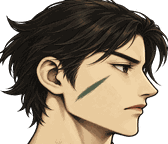
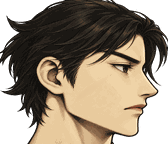
v327 꾸미기 얼굴마다 맞추기: 눈·턱 자리 측정, 안대·외눈·면사·칼자국·삿갓을 그 머리에, 목·머리카락은 옷깃 뒤로
Claude-Session: https://claude.ai/code/session_01A3prWCVJXDYfeByQW7RT7U

Changed region(s): [[0.4464, 0.5278, 0.6548, 0.6944], [0.4167, 0.5833, 0.4464, 0.6111]]

diff --git a/js/battle.js b/js/battle.js
@@ -1,7 +1,7 @@
 // 전투 화면 캔버스 렌더러 (수묵화 무협풍). 게임 이벤트를 받아 연출만 담당한다.
 import { drawObstacle, drawLowObstacle } from './obstacles.js';
 import { zoneOf, RANKS, GRADES, FIELD_SQUASH, JOB_TRAITS, QI, jobOf, critTierName } from './data.js';
-import { artReady, putArt, putArtBand, putArtEdge, putArtTint, loadArt, FIT, ART_SHOULDER, ART_BAND, headKey, bodyKey, weaponKey, artHeight, hasBodyArt, putWeapon, weaponBare, putHat, bodyColors, hasArt, HEAD_FIT, registerArt, artImg } from './art.js';
+import { artReady, putArt, putArtBand, putArtEdge, putArtTint, loadArt, FIT, ART_SHOULDER, ART_BAND, headKey, bodyKey, weaponKey, artHeight, hasBodyArt, putWeapon, weaponBare, putHat, hatRect, headGeom, headMasked, bodyColors, hasArt, HEAD_FIT, registerArt, artImg } from './art.js';
 import { drawFemaleHead, drawBackHair, FHEAD_W, FHEAD_H, FHEAD_FIT } from './femhead.js';
 import { drawCreature, saddleY, mountTilt, mountGait } from './creatures.js';
 import { ZONES_W, itemZone, weaponSkinOf, CUSTOM_HAIRS } from './world/wdata.js';
@@ -4504,6 +4504,10 @@ export function drawFighter(ctx, x, y, look = {}, o = {}) {
   // v325 기운 낟알(뒤쪽 반) · 여협 뒷머리(그림 머리가 아직 안 왔을 때만 — 그림 머리에는 머리카락이 다 있다)
   if (look.gAura) drawAuraFx(ctx, look.gAura, t, false);
   if (look.female && look.fhead && look.fhead.startsWith('fhv|')) drawBackHair(ctx, look.fstyle, hairHex(look.hairK), look.band, t, o.run);
+  // v327 머리 그림의 턱 아래(목·늘어진 머리카락)는 몸보다 먼저 — 목이 옷깃 안으로 들어가고 머리카락이 어깨 뒤로 넘어간다.
+  //   전엔 머리 한 장을 몸 위에 얹어 목 밑동·머리카락 끝이 옷깃 앞에 네모로 떠 있었다
+  const hk0 = artReady() && !jiang && !look.ghost ? headKey(look) : null;
+  if (hk0) drawHeadArt(ctx, hk0, (HEAD_FIT[hk0]?.fit) || FIT.head, look, HEAD_SPLIT, 99);
   // 상체 — 그림 조각이 있으면 도포·상체·허리띠를 한 장으로 갈음한다
   const artBody = artReady() && !jiang && !look.ghost;
   // 두목 옷: 흰 도포 그림에 그 빛깔을 곱해 입힌다(그림 도포 여섯 빛깔에 없는 색도 그대로 나온다)
@@ -4540,7 +4544,11 @@ export function drawFighter(ctx, x, y, look = {}, o = {}) {
   // v280 띠가 그려진 머리(상투·머리띠)는 띠를 무인이 고른 색으로
   const HF = (hk && HEAD_FIT[hk]?.fit) || FIT.head;   // v325 그림마다 놓는 자리(여협 머리)
   const tintHead = look.bandTint && (hk === 'head-topknot' || hk === 'head-band' || (hk?.startsWith('fh-') && !hk.endsWith('-red')));
-  if (hk && (tintHead ? putArtBand(ctx, hk, HF, look.band) : putArt(ctx, hk, HF))) {
+  // v327 삿갓을 쓰면 챙 위로 삐져나온 머리카락(상투·쪽·꽁지)은 갓 속에 — 머리 그림을 챙 조금 위에서 자른다
+  const hatR = look.hat === 'straw' && hk && hk !== 'head-hat' && hk !== 'head-hood' ? hatRect('hat-straw', hk, HF) : null;
+  const headTop = hatR ? hatR.brim - hatR.h * 0.16 : -999;
+  const backDone = hk && hk === hk0 && !look.ghost;
+  if (hk && (backDone ? drawHeadArt(ctx, hk, HF, look, headTop, HEAD_SPLIT, tintHead) : hatR ? drawHeadArt(ctx, hk, HF, look, headTop, 99, tintHead) : (tintHead ? putArtBand(ctx, hk, HF, look.band) : putArt(ctx, hk, HF)))) {
     // 머리카락까지 한 장
   } else {
   ctx.fillStyle = skin;
@@ -4561,6 +4569,9 @@ export function drawFighter(ctx, x, y, look = {}, o = {}) {
   }
   // v306 안대 — 눈 자리를 가로지르는 띠, 뒤통수 쪽에 매듭 꼬리 둘
   if (look.blind && look.head !== 'mask' && !jiang) {
+    const g = hk ? headGeom(hk, HF) : null;
+    if (g) drawBlindArt(ctx, hk, g, look.blind, t);
+    else {
     const hh = hk ? artHeight(hk, HF) : 0;
     const ey = hk ? HF.y - hh * (HEAD_FIT[hk]?.eye ?? 0.44) : -89;   // v323 머리마다 눈 선
     const cx = hk ? HF.x : 1;
@@ -4574,9 +4585,10 @@ export function drawFighter(ctx, x, y, look = {}, o = {}) {
     ctx.beginPath(); ctx.moveTo(cx - 12, ey); ctx.quadraticCurveTo(cx - 19, ey + 2 + sw, cx - 21, ey + 9 + sw); ctx.stroke();
     ctx.beginPath(); ctx.moveTo(cx - 12, ey + 1); ctx.quadraticCurveTo(cx - 17, ey + 5 - sw, cx - 16, ey + 12 - sw); ctx.stroke();
     ctx.restore();
+    }
   }
   // v323 쓰개 덧씌우기 — 삿갓을 어느 머리(맨머리·상투·민머리 + 안대)에나 얹는다
-  if (look.hat === 'straw' && hk && hk !== 'head-hat' && hk !== 'head-hood') putHat(ctx, 'hat-straw', hk, HF);
+  if (hatR) putHat(ctx, 'hat-straw', hk, HF);
   // v325 얼굴 덧그림 — 외눈 안대 · 면사 · 칼자국 (그림, 눈 자리에)
   if (look.faceAcc && hk && !jiang) drawFaceAcc(ctx, look.faceAcc, hk, HF, t);
   if (look.crown) drawCrown(ctx, t);
@@ -4711,18 +4723,71 @@ function femaleHeadKey(style, hairK, band) {
   }
   return key;
 }
+const HEAD_SPLIT = FIT.head.y - 2;   // v327 이 선 아래 머리 그림은 몸 뒤로
+// v327 머리 그림을 y 범위(top~bot)만 — 몸 뒤 패스(턱 아래)와 몸 앞 패스(턱 위·삿갓 아래)로 나눠 그린다
+function drawHeadArt(ctx, hk, HF, look, top, bot, tint) {
+  ctx.save();
+  ctx.beginPath(); ctx.rect(HF.x - HF.w * 1.5, top, HF.w * 3, bot - top); ctx.clip();
+  const ok = tint ?? (look.bandTint && (hk === 'head-topknot' || hk === 'head-band' || (hk.startsWith('fh-') && !hk.endsWith('-red'))))
+    ? putArtBand(ctx, hk, HF, look.band) : putArt(ctx, hk, HF);
+  ctx.restore();
+  return ok;
+}
+// v327 안대 — 머리 그림 모양대로 오린 띠(눈 줄 · 얼굴 폭에 맞춘 두께) + 뒤통수에서 늘어지는 매듭 꼬리
+function drawBlindArt(ctx, hk, g, col, t) {
+  const cv = headMasked(hk, `blind${col}`, (c, W, H, a) => {
+    const fw = (a.faceR - a.faceL) * W, cy = a.eyeY * H, th = fw * 0.2;
+    c.fillStyle = col;
+    c.beginPath();
+    c.moveTo(0, cy - th * 0.62); c.quadraticCurveTo(W * 0.55, cy - th * 0.72, W, cy - th * 0.4);
+    c.lineTo(W, cy + th * 0.6); c.quadraticCurveTo(W * 0.55, cy + th * 0.42, 0, cy + th * 0.38);
+    c.closePath(); c.fill();
+    c.strokeStyle = 'rgba(0,0,0,.4)'; c.lineWidth = Math.max(1, th * 0.09); c.stroke();
+    c.strokeStyle = 'rgba(255,255,255,.18)'; c.lineWidth = Math.max(1, th * 0.07);
+    c.beginPath(); c.moveTo(0, cy - th * 0.4); c.quadraticCurveTo(W * 0.55, cy - th * 0.5, W, cy - th * 0.2); c.stroke();
+    c.strokeStyle = 'rgba(0,0,0,.18)'; c.lineWidth = Math.max(1, th * 0.05);
+    for (const f of [0.3, 0.5, 0.68]) { c.beginPath(); c.moveTo(W * f, cy - th * 0.5); c.lineTo(W * (f + 0.03), cy + th * 0.45); c.stroke(); }
+  });
+  if (!cv) return;
+  ctx.drawImage(cv, g.x0, g.y0, g.w, g.h);
+  const k = g.faceW / 16, bx = g.backX + 0.8 * k, by = g.eyeY;
+  ctx.save();
+  ctx.strokeStyle = col; ctx.lineCap = 'round'; ctx.lineWidth = 1.9 * k;
+  const sw = Math.sin(t * 5) * 1.3 * k;
+  ctx.beginPath(); ctx.moveTo(bx, by); ctx.quadraticCurveTo(bx - 6 * k, by + 2 * k + sw, bx - 8 * k, by + 8 * k + sw); ctx.stroke();
+  ctx.beginPath(); ctx.moveTo(bx, by + 0.6 * k); ctx.quadraticCurveTo(bx - 4 * k, by + 4.5 * k - sw, bx - 3.5 * k, by + 10 * k - sw); ctx.stroke();
+  ctx.fillStyle = col; ctx.beginPath(); ctx.ellipse(bx, by + 0.3 * k, 1.5 * k, 1.2 * k, 0, 0, Math.PI * 2); ctx.fill();
+  ctx.restore();
+}
 function drawFaceAcc(ctx, kind, hk, HF, t) {
   const im = artImg(`face-${kind}`);
+  const g = headGeom(hk, HF);
+  if (im && g) {
+    if (kind === 'veil') {
+      // 면사 — 눈 아래부터 코·입·턱을 덮고 턱 밑으로 조금 늘어진다
+      // 그림 왼쪽 매듭 꼬리는 뺨 위에서 핏자국처럼 보여 천 부분(32%~)만 쓴다
+      const x0 = g.eyeX - g.faceW * 0.3, x1 = g.faceR + g.faceW * 0.07;
+      const top = g.eyeY + (g.jawY - g.eyeY) * 0.3;
+      const hh = Math.max((g.jawY - top) * 2, g.faceW * 0.4);
+      ctx.drawImage(im, im.width * 0.32, 0, im.width * 0.68, im.height, x0, top - hh * 0.08, x1 - x0, hh);
+      return;
+    }
+    const cv = headMasked(hk, kind, (c, W, H, a) => {
+      const fw = (a.faceR - a.faceL) * W, ex = a.eyeX * W, ey = a.eyeY * H;
+      if (kind === 'patch') {   // 외눈 안대 — 원판(그림의 72%·62% 자리)을 눈에, 끈은 뒤통수로(머리 밖은 잘림)
+        const sw = fw * 0.72, sh = (im.height * sw) / im.width;
+        c.drawImage(im, ex - sw * 0.72, ey - sh * 0.6, sw, sh);
+      } else {                  // 칼자국 — 눈썹 위에서 눈을 지나 뺨까지
+        const L = fw * 0.46, sw = (im.width * L) / im.height;
+        c.save(); c.translate(ex - fw * 0.05, ey + fw * 0.04); c.rotate(-0.18);
+        c.drawImage(im, -sw / 2, -L / 2, sw, L); c.restore();
+      }
+    });
+    if (cv) { ctx.drawImage(cv, g.x0, g.y0, g.w, g.h); return; }
+  }
   const f = HEAD_FIT[hk] || {};
   const hh = artHeight(hk, HF);
   const ey = HF.y - hh * (f.eye ?? 0.44), ex = HF.x - HF.w / 2 + HF.w * (f.eyeX ?? 0.72);
-  if (im) {
-    const w = kind === 'veil' ? HF.w * 0.62 : kind === 'patch' ? HF.w * 0.42 : HF.w * 0.1;
-    const h = (im.height * w) / im.width;
-    const yy = kind === 'veil' ? ey + HF.w * 0.08 : ey - h / 2;
-    ctx.drawImage(im, ex - w / 2 + (kind === 'veil' ? -HF.w * 0.05 : 0), yy, w, h);
-    return;
-  }
   // 그림이 아직 안 왔으면 단순한 모양
   ctx.save();
   if (kind === 'patch') { ctx.fillStyle = '#111'; ctx.beginPath(); ctx.ellipse(ex, ey, 2.6, 2.2, 0, 0, Math.PI * 2); ctx.fill(); ctx.strokeStyle = '#111'; ctx.lineWidth = 0.9; ctx.beginPath(); ctx.moveTo(ex - 2, ey - 1.5); ctx.lineTo(ex - 11, ey - 4); ctx.stroke(); }

diff --git a/js/art.js b/js/art.js
@@ -71,6 +71,7 @@ export const ART_SHOULDER = { x: 9, y: BODY_TOP + 9 };
 export const ART_BAND = { x: -5, y: BODY_TOP + 4 - 14 };
 
 import { ART2_HEADS, ART2_WEAPONS, ART2_SPRITES } from './art2.js';
+import { HEAD_ANCHOR } from './headanchor.js';
 const img = {};
 let ready = false;
 let tried = false;
@@ -171,10 +172,60 @@ let tried2 = false;
 export function loadArt2(onEach) {
   if (tried2 || typeof Image === 'undefined') return;
   tried2 = true;
-  const one = (n, then) => { const im = new Image(); im.onload = () => { img[n] = im; then?.(); onEach?.(n); }; im.src = `art/hero2/${n}.png`; };
+  const one = (n, then) => { const im = new Image(); im.onload = () => { img[n] = n.startsWith('fh-') ? fadeBottom(im, 0.86) : im; then?.(); onEach?.(n); }; im.src = `art/hero2/${n}.png`; };
   for (const [n, f] of Object.entries(ART2_HEADS)) one(n, () => { HEAD_FIT[n] = { crop: 1, brow: f.brow, eye: f.eye, eyeX: f.eyeX, fit: { w: f.w, x: f.x, y: f.y } }; });
   for (const [n, f] of Object.entries(ART2_WEAPONS)) one(n, () => { WEAPON_FIT[n] = { ...f }; });
   for (const n of ART2_SPRITES) one(n);
+}
+// v327 여협 머리 그림 맨 아래(목·늘어진 머리카락)는 네모로 잘려 있었다 — 아래 14%를 투명하게 흐려 끝을 부드럽게
+function fadeBottom(im, from) {
+  if (typeof document === 'undefined') return im;
+  const c = document.createElement('canvas'); c.width = im.width; c.height = im.height;
+  const g = c.getContext('2d'); g.drawImage(im, 0, 0);
+  g.globalCompositeOperation = 'destination-out';
+  const gr = g.createLinearGradient(0, im.height * from, 0, im.height);
+  gr.addColorStop(0, 'rgba(0,0,0,0)'); gr.addColorStop(1, 'rgba(0,0,0,1)');
+  g.fillStyle = gr; g.fillRect(0, im.height * from - 1, im.width, im.height * (1 - from) + 2);
+  return c;
+}
+// v327 머리 그림에서 잰 자리(눈·눈썹·정수리·턱·얼굴 좌우·뒤통수)를 그려지는 좌표로 — 덧그림을 '그 얼굴'에 맞춘다
+export function headGeom(hk, HF) {
+  const im = img[hk], a = HEAD_ANCHOR[hk];
+  if (!im || !a) return null;
+  const w = HF.w, h = (im.height * w) / im.width, x0 = HF.x - w / 2, y0 = HF.y - h;
+  const X = (f) => x0 + w * f, Y = (f) => y0 + h * f;
+  return { x0, y0, w, h, a, eyeX: X(a.eyeX), eyeY: Y(a.eyeY), browY: Y(a.browY), topY: Y(a.topY), jawY: Y(a.jawY),
+    faceL: X(a.faceL), faceR: X(a.faceR), backX: X(a.backX), browL: X(a.browL), browR: X(a.browR), faceW: w * (a.faceR - a.faceL) };
+}
+// 머리 그림 모양대로 오린 덧그림(안대 띠·외눈 끈·칼자국) — 그림 크기 캔버스에 그리고 머리 밖은 지운다. 한 번 만들어 둔다
+const maskCache = new Map();
+export function headMasked(hk, tag, draw) {
+  const id = hk + '|' + tag;
+  if (maskCache.has(id)) return maskCache.get(id);
+  const im = img[hk], a = HEAD_ANCHOR[hk];
+  if (!im || !a || typeof document === 'undefined') return null;
+  const cv = document.createElement('canvas'); cv.width = im.width; cv.height = im.height;
+  const c = cv.getContext('2d');
+  draw(c, im.width, im.height, a);
+  c.globalCompositeOperation = 'destination-in'; c.drawImage(im, 0, 0);
+  maskCache.set(id, cv);
+  return cv;
+}
+// v327 삿갓 자리 — 챙이 눈썹 선에, 폭은 그 머리(머리카락 포함) 눈썹 줄 폭보다 넉넉히
+export function hatRect(hatKey, headKey, headFit) {
+  const im = img[hatKey], hf = HAT_FIT[hatKey], hd = HEAD_FIT[headKey] || HEAD_FIT.head;
+  if (!im || !hf) return null;
+  headFit = hd.fit || headFit;
+  const g = headGeom(headKey, headFit);
+  if (g) {
+    const w = Math.max(hf.w, (g.browR - g.browL) * 1.16), h = (im.height * w) / im.width;
+    const brim = g.browY + g.faceW * 0.04;
+    return { x: (g.browL + g.browR) / 2 + g.faceW * 0.04 - w / 2, y: brim - h * 0.92, w, h, brim };
+  }
+  const hh = artHeight(headKey, headFit);
+  const browY = headFit.y - hh + hh * hd.brow;
+  const w = hf.w, h = (im.height * w) / im.width;
+  return { x: headFit.x - w / 2 - 1, y: browY - h * 0.92, w, h, brim: browY };
 }
 export function artImg(key) { return img[key] || null; }
 // v325 캔버스로 그린 조각(여협 머리)을 그림 조각처럼 쓴다 — putArt·artHeight·HEAD_FIT이 그대로 통한다
@@ -328,13 +379,9 @@ export function hasArt(key) { return !!img[key]; }
 export function weaponBare(key) { return !!WEAPON_FIT[key]?.bare; }
 // v323 쓰개 덧씌우기 — 머리 그림의 눈썹 선에 챙이 오게
 export function putHat(ctx, hatKey, headKey, headFit) {
-  const im = img[hatKey], hf = HAT_FIT[hatKey], hd = HEAD_FIT[headKey] || HEAD_FIT.head;
-  if (!im || !hf) return false;
-  headFit = hd.fit || headFit;   // v325 그림마다 놓는 자리가 다를 수 있다(여협 머리)
-  const hh = artHeight(headKey, headFit);
-  const browY = headFit.y - hh + hh * hd.brow;   // 머리 위에서 brow만큼 내려온 자리
-  const w = hf.w, h = (im.height * w) / im.width;
-  ctx.drawImage(im, headFit.x + (hd.fit ? (hd.eyeX - 0.5) * headFit.w * 0.4 : 0) - w / 2 - 1, browY - h * 0.92, w, h);
+  const r = hatRect(hatKey, headKey, headFit);
+  if (!r) return false;
+  ctx.drawImage(img[hatKey], r.x, r.y, r.w, r.h);
   return true;
 }
 export function putArt(ctx, key, fit) {

diff --git a/js/headanchor.js b/js/headanchor.js
@@ -1,0 +1,3 @@
+// v327 tools/charv326/anchors.py가 잰다 — 손으로 고치지 않는다.
+// 머리 그림(자른 뒤)마다 눈·눈썹·정수리·턱·얼굴 좌우·뒤통수 자리. 모두 그림 너비·높이에 대한 비(위·왼쪽에서)
+export const HEAD_ANCHOR = {"head": {"eyeX": 0.754, "eyeY": 0.508, "browY": 0.442, "topY": 0.0, "jawY": 0.756, "faceL": 0.238, "faceR": 0.887, "backX": 0.054, "browL": 0.006, "browR": 0.988}, "head-topknot": {"eyeX": 0.796, "eyeY": 0.597, "browY": 0.523, "topY": 0.129, "jawY": 0.793, "faceL": 0.131, "faceR": 0.946, "backX": 0.077, "browL": 0.143, "browR": 0.964}, "head-bald": {"eyeX": 0.706, "eyeY": 0.645, "browY": 0.437, "topY": 0.0, "jawY": 0.984, "faceL": 0.256, "faceR": 0.923, "backX": 0.232, "browL": 0.22, "browR": 0.952}, "fh-bun-black": {"eyeX": 0.726, "eyeY": 0.578, "browY": 0.522, "topY": 0.143, "jawY": 0.796, "faceL": 0.269, "faceR": 0.869, "backX": 0.094, "browL": 0.088, "browR": 0.973}, "fh-bun-blue": {"eyeX": 0.724, "eyeY": 0.581, "browY": 0.523, "topY": 0.145, "jawY": 0.798, "faceL": 0.273, "faceR": 0.867, "backX": 0.097, "browL": 0.09, "browR": 0.97}, "fh-bun-brown": {"eyeX": 0.729, "eyeY": 0.562, "browY": 0.484, "topY": 0.147, "jawY": 0.794, "faceL": 0.263, "faceR": 0.871, "backX": 0.092, "browL": 0.097, "browR": 0.968}, "fh-bun-red": {"eyeX": 0.72, "eyeY": 0.58, "browY": 0.523, "topY": 0.146, "jawY": 0.8, "faceL": 0.269, "faceR": 0.869, "backX": 0.091, "browL": 0.088, "browR": 0.973}, "fh-bun-white": {"eyeX": 0.75, "eyeY": 0.579, "browY": 0.533, "topY": 0.146, "jawY": 0.801, "faceL": 0.272, "faceR": 0.869, "backX": 0.094, "browL": 0.087, "browR": 0.973}, "fh-long-black": {"eyeX": 0.776, "eyeY": 0.519, "browY": 0.466, "topY": 0.009, "jawY": 0.693, "faceL": 0.352, "faceR": 0.898, "backX": 0.03, "browL": 0.058, "browR": 0.986}, "fh-long-blue": {"eyeX": 0.777, "eyeY": 0.519, "browY": 0.465, "topY": 0.012, "jawY": 0.694, "faceL": 0.355, "faceR": 0.895, "backX": 0.033, "browL": 0.061, "browR": 0.986}, "fh-long-brown": {"eyeX": 0.773, "eyeY": 0.514, "browY": 0.461, "topY": 0.009, "jawY": 0.696, "faceL": 0.353, "faceR": 0.897, "backX": 0.033, "browL": 0.061, "browR": 0.986}, "fh-long-red": {"eyeX": 0.766, "eyeY": 0.515, "browY": 0.464, "topY": 0.012, "jawY": 0.699, "faceL": 0.353, "faceR": 0.897, "backX": 0.033, "browL": 0.061, "browR": 0.986}, "fh-long-white": {"eyeX": 0.789, "eyeY": 0.5, "browY": 0.434, "topY": 0.01, "jawY": 0.696, "faceL": 0.352, "faceR": 0.897, "backX": 0.039, "browL": 0.094, "browR": 0.987}, "fh-pony-black": {"eyeX": 0.75, "eyeY": 0.557, "browY": 0.51, "topY": 0.159, "jawY": 0.737, "faceL": 0.39, "faceR": 0.877, "backX": 0.049, "browL": 0.052, "browR": 0.974}, "fh-pony-blue": {"eyeX": 0.752, "eyeY": 0.56, "browY": 0.512, "topY": 0.159, "jawY": 0.737, "faceL": 0.389, "faceR": 0.877, "backX": 0.046, "browL": 0.049, "browR": 0.986}, "fh-pony-brown": {"eyeX": 0.747, "eyeY": 0.548, "browY": 0.491, "topY": 0.161, "jawY": 0.735, "faceL": 0.386, "faceR": 0.877, "backX": 0.048, "browL": 0.054, "browR": 0.994}, "fh-pony-red": {"eyeX": 0.749, "eyeY": 0.559, "browY": 0.51, "topY": 0.159, "jawY": 0.737, "faceL": 0.389, "faceR": 0.877, "backX": 0.049, "browL": 0.051, "browR": 0.986}, "fh-pony-white": {"eyeX": 0.798, "eyeY": 0.563, "browY": 0.509, "topY": 0.16, "jawY": 0.738, "faceL": 0.389, "faceR": 0.879, "backX": 0.049, "browL": 0.052, "browR": 0.974}, "fh-short-black": {"eyeX": 0.757, "eyeY": 0.566, "browY": 0.492, "topY": 0.011, "jawY": 0.773, "faceL": 0.304, "faceR": 0.883, "backX": 0.003, "browL": 0.021, "browR": 0.988}, "fh-short-blue": {"eyeX": 0.748, "eyeY": 0.567, "browY": 0.492, "topY": 0.018, "jawY": 0.725, "faceL": 0.306, "faceR": 0.883, "backX": 0.003, "browL": 0.022, "browR": 0.988}, "fh-short-brown": {"eyeX": 0.761, "eyeY": 0.535, "browY": 0.461, "topY": 0.023, "jawY": 0.724, "faceL": 0.302, "faceR": 0.891, "backX": 0.012, "browL": 0.035, "browR": 0.992}, "fh-short-red": {"eyeX": 0.75, "eyeY": 0.566, "browY": 0.488, "topY": 0.018, "jawY": 0.723, "faceL": 0.303, "faceR": 0.884, "backX": 0.003, "browL": 0.034, "browR": 0.988}, "fh-short-white": {"eyeX": 0.772, "eyeY": 0.557, "browY": 0.486, "topY": 0.022, "jawY": 0.724, "faceL": 0.306, "faceR": 0.885, "backX": 0.006, "browL": 0.022, "browR": 0.987}, "fh-twin-black": {"eyeX": 0.73, "eyeY": 0.477, "browY": 0.426, "topY": 0.007, "jawY": 0.691, "faceL": 0.314, "faceR": 0.855, "backX": 0.135, "browL": 0.119, "browR": 0.975}, "fh-twin-blue": {"eyeX": 0.729, "eyeY": 0.477, "browY": 0.426, "topY": 0.01, "jawY": 0.695, "faceL": 0.315, "faceR": 0.858, "backX": 0.136, "browL": 0.129, "browR": 0.975}, "fh-twin-brown": {"eyeX": 0.728, "eyeY": 0.465, "browY": 0.386, "topY": 0.008, "jawY": 0.689, "faceL": 0.313, "faceR": 0.857, "backX": 0.131, "browL": 0.131, "browR": 0.969}, "fh-twin-red": {"eyeX": 0.73, "eyeY": 0.476, "browY": 0.422, "topY": 0.01, "jawY": 0.691, "faceL": 0.316, "faceR": 0.858, "backX": 0.133, "browL": 0.13, "browR": 0.975}, "fh-twin-white": {"eyeX": 0.738, "eyeY": 0.478, "browY": 0.432, "topY": 0.01, "jawY": 0.693, "faceL": 0.316, "faceR": 0.859, "backX": 0.137, "browL": 0.121, "browR": 0.974}};

diff --git a/sw.js b/sw.js
@@ -1,8 +1,8 @@
 // 앱 껍데기를 캐시해 오프라인에서도 열리게 한다. 온라인이면 항상 새 파일을 먼저 받는다.
-const CACHE = 'ifu-v326';
+const CACHE = 'ifu-v327';
 const SHELL = [
   './', 'index.html', 'install.html', 'icons/qr-install.png', 'css/style.css', 'manifest.webmanifest',
-  'js/big.js', 'js/data.js', 'js/battle.js', 'js/net.js', 'js/savecode.js', 'js/art2.js', 'js/femhead.js', 'js/fmt.js', 'js/firebase-config.js',
+  'js/big.js', 'js/data.js', 'js/battle.js', 'js/net.js', 'js/savecode.js', 'js/art2.js', 'js/headanchor.js', 'js/femhead.js', 'js/fmt.js', 'js/firebase-config.js',
   'js/ui/common.js',
   'icons/icon-192.png', 'icons/icon-512.png', 'icons/apple-touch-icon.png', 'icons/icon-maskable-512.png',
   'js/world/wpath.js',   // v254: v237부터 빠져 있어 오프라인으로 열면 빈 화면이었다

diff --git a/js/data.js b/js/data.js
@@ -51,7 +51,7 @@ export const critExpect = (C, D) => {
 // NaN이 된다 — 재 보니 적 체력이 관문 8467에서 그 선을 넘었다.
 // 반대로 상한이 있는 값(경지 배수·초월 단계처럼)은 보통 숫자 그대로 둔다.
 
-export const BUILD = 'ifu-v326';
+export const BUILD = 'ifu-v327';
 
 export const SAVE_VERSION = 4;
 export const OFFLINE_CAP_SEC = 12 * 3600;

diff --git a/tools/charv326/anchors.py b/tools/charv326/anchors.py
@@ -1,0 +1,89 @@
+# v327 머리 그림마다 눈·눈썹·정수리·턱 자리를 픽셀로 잰다 — 덧그림(안대·면사·칼자국·삿갓)을 그 머리에 맞춰 놓으려고.
+#   눈: 살빛에 둘러싸인 어두운 점들(눈동자·속눈썹)의 무게중심 — 얼굴 오른쪽(앞) 절반 · 위 15~65%에서
+#   눈썹: 눈 위쪽 어두운 줄 · 정수리: 얼굴 가운데 줄에서 그림이 시작하는 곳 · 턱: 살빛이 끝나는 맨 아래
+# 값은 모두 그림 높이·너비에 대한 비(위에서·왼쪽에서). 사용: python3 anchors.py → anchors.json
+import json, glob, os
+from PIL import Image
+def is_skin(p):
+    r, g, b, a = p
+    return a > 200 and r > 160 and g > 110 and b > 80 and r > g > b and 25 < r - b < 130
+def measure(path, crop=1.0):
+    im = Image.open(path).convert('RGBA')
+    if crop < 1: im = im.crop((0, 0, im.width, round(im.height * crop)))
+    w, h = im.size; px = im.load()
+    sk = [(x, y) for y in range(0, h, 1) for x in range(0, w, 1) if is_skin(px[x, y])]
+    xs = sorted(x for x, _ in sk); ys = sorted(y for _, y in sk)
+    n = len(sk)
+    sl, sr, st, sb = xs[n // 100], xs[n * 99 // 100], ys[n // 100], ys[n * 99 // 100]
+    skin = set(sk)
+    # 눈 후보 — 어둡고 둘레(반지름 5)의 살빛이 35% 넘는 점
+    cand = []
+    for y in range(st + int((sb - st) * 0.12), st + int((sb - st) * 0.62)):
+        for x in range(sl + int((sr - sl) * 0.45), sr + 1):
+            r, g, b, a = px[x, y]
+            if a < 200 or (r + g + b) / 3 > 75: continue
+            k = 0; t = 0
+            for dy in range(-5, 6, 2):
+                for dx in range(-5, 6, 2):
+                    t += 1
+                    if (x + dx, y + dy) in skin: k += 1
+            if k / t > 0.35: cand.append((x, y))
+    if not cand: return None
+    # 가장 촘촘한 덩어리(눈) — 눈썹이 같이 잡히면 아래쪽(눈)을 고른다: y로 두 덩어리를 나눠 아래 것
+    cy = sorted(y for _, y in cand)
+    mid = cy[len(cy) // 2]
+    low = [(x, y) for x, y in cand if y >= mid - 2]
+    ex = sum(x for x, _ in low) / len(low); ey = sum(y for _, y in low) / len(low)
+    high = [(x, y) for x, y in cand if y < ey - 4]
+    by = (sum(y for _, y in high) / len(high)) if high else ey - (sb - st) * 0.1
+    # 정수리 — 얼굴 가운데 세로줄에서 처음 불투명한 곳
+    cx = (sl + sr) // 2
+    top = next((y for y in range(h) if px[cx, y][3] > 120), 0)
+    # 턱 — 눈 아래에서 살빛 오른쪽 끝(얼굴 앞선)이 목으로 쑥 들어가기 직전 줄
+    def rr(y):
+        xs_ = [x for x in range(w) if (x, y) in skin]
+        return max(xs_) if xs_ else None
+    rows = [(y, rr(y)) for y in range(int(ey), sb + 1)]
+    rows = [(y, r) for y, r in rows if r is not None]
+    neck = sorted(r for _, r in rows[-max(3, len(rows) // 12):])[0]
+    fw = sr - sl
+    jaw = max((y for y, r in rows if r > neck + fw * 0.1), default=sb)
+    # 뒤통수 — 눈 줄·눈썹 줄에서 그림이 시작하는 왼쪽 끝 · 눈썹 줄의 머리 오른쪽 끝
+    def lx(y): return next((x for x in range(w) if px[x, int(y)][3] > 120), 0)
+    def rx(y): return next((x for x in range(w - 1, -1, -1) if px[x, int(y)][3] > 120), w - 1)
+    return {'jawY': round(jaw / h, 3), 'backX': round(lx(ey) / w, 3), 'browL': round(lx(by) / w, 3), 'browR': round(rx(by) / w, 3),
+            'w': w, 'h': h, 'eyeX': round(ex / w, 3), 'eyeY': round(ey / h, 3), 'browY': round(by / h, 3), 'topY': round(top / h, 3),
+            'chinY': round(sb / h, 3), 'skinTop': round(st / h, 3), 'faceL': round(sl / w, 3), 'faceR': round(sr / w, 3)}
+out = {}
+CROP = {'head': 0.88, 'head-topknot': 0.93, 'head-band': 0.95, 'head-hat': 1, 'head-hood': 1, 'head-bald': 0.72}
+for k, c in CROP.items(): out[k] = measure(f'../../art/hero/{k}.png', c)
+for f in sorted(glob.glob('../../art/hero2/fh-*.png')): out[os.path.basename(f)[:-4]] = measure(f)
+json.dump(out, open('anchors.json', 'w'), indent=1)
+FIX = {'head-bald': {'eyeY': 0.07}}   # 민머리는 짙은 눈썹이 눈으로 잡힌다 — 눈은 그만큼 아래
+for k, f in FIX.items():
+    for q, d in f.items(): out[k][q] = round(out[k][q] + d, 3)
+out = {k: v for k, v in out.items() if v and k in ('head', 'head-topknot', 'head-bald') or k.startswith('fh-')}
+keep = ('eyeX', 'eyeY', 'browY', 'topY', 'jawY', 'faceL', 'faceR', 'backX', 'browL', 'browR')
+js = ("// v327 tools/charv326/anchors.py가 잰다 — 손으로 고치지 않는다.\n"
+      "// 머리 그림(자른 뒤)마다 눈·눈썹·정수리·턱·얼굴 좌우·뒤통수 자리. 모두 그림 너비·높이에 대한 비(위·왼쪽에서)\n"
+      "export const HEAD_ANCHOR = " + json.dumps({k: {q: v[q] for q in keep} for k, v in out.items()}) + ";\n")
+open('../../js/headanchor.js', 'w').write(js)
+for k, v in out.items(): print(k, v)
+
+from PIL import ImageDraw
+tiles=[]
+for k,v in out.items():
+    if k.startswith('fh-') and not k.endswith('-black') and k!='fh-pony-red' and k!='fh-twin-white': continue
+    p = f'../../art/hero/{k}.png' if not k.startswith('fh-') else f'../../art/hero2/{k}.png'
+    im = Image.open(p).convert('RGBA')
+    c = CROP.get(k, 1)
+    if c < 1: im = im.crop((0, 0, im.width, round(im.height * c)))
+    im = im.resize((300, round(im.height * 300 / im.width)))
+    W,H = im.size; d = ImageDraw.Draw(im)
+    d.ellipse((v['eyeX']*W-4, v['eyeY']*H-4, v['eyeX']*W+4, v['eyeY']*H+4), outline=(0,255,0,255), width=2)
+    for key,col in (('browY',(0,128,255,255)),('jawY',(255,0,255,255)),('topY',(255,255,0,255))): d.line((0, v[key]*H, W, v[key]*H), fill=col)
+    for key,col in (('faceL',(255,128,0,255)),('faceR',(255,128,0,255)),('backX',(255,0,0,255))): d.line((v[key]*W, 0, v[key]*W, H), fill=col)
+    tiles.append(im)
+T=Image.new('RGBA',(sum(t.width for t in tiles),max(t.height for t in tiles)),(80,80,80,255)); x=0
+for t in tiles: T.alpha_composite(t,(x,0)); x+=t.width
+T.save('/tmp/claude-0/-home-user/84353f17-e527-5beb-94c7-4611078e970e/scratchpad/shots/anch.png')
